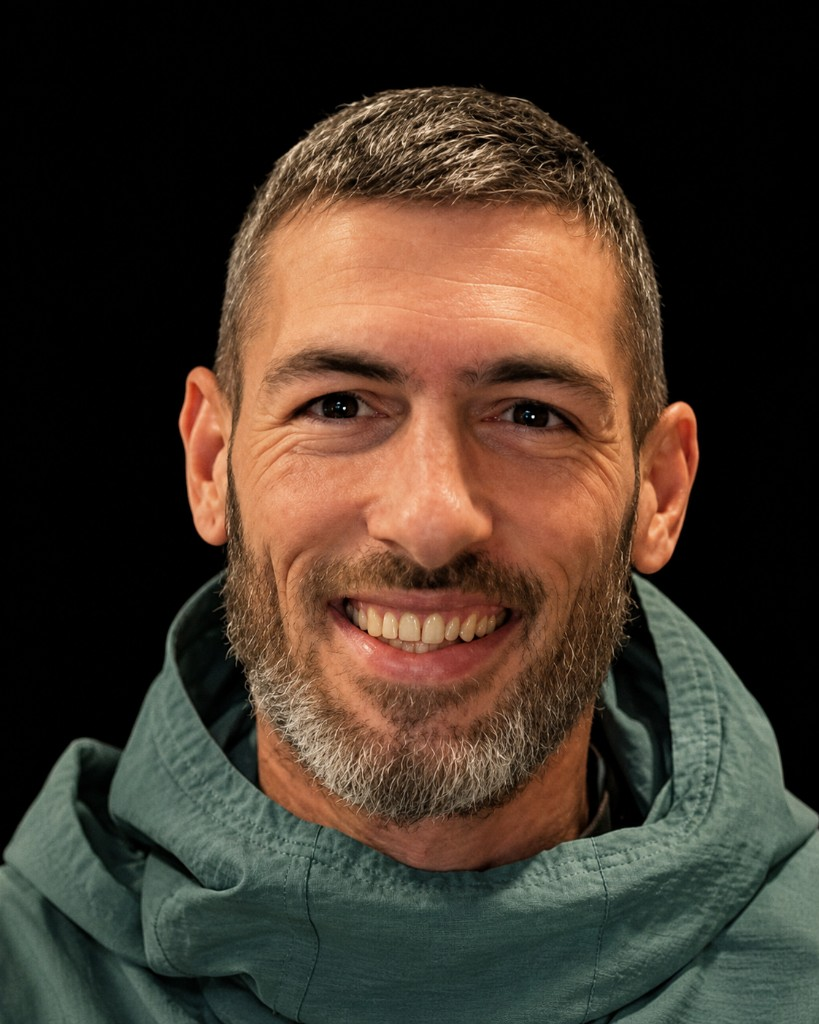
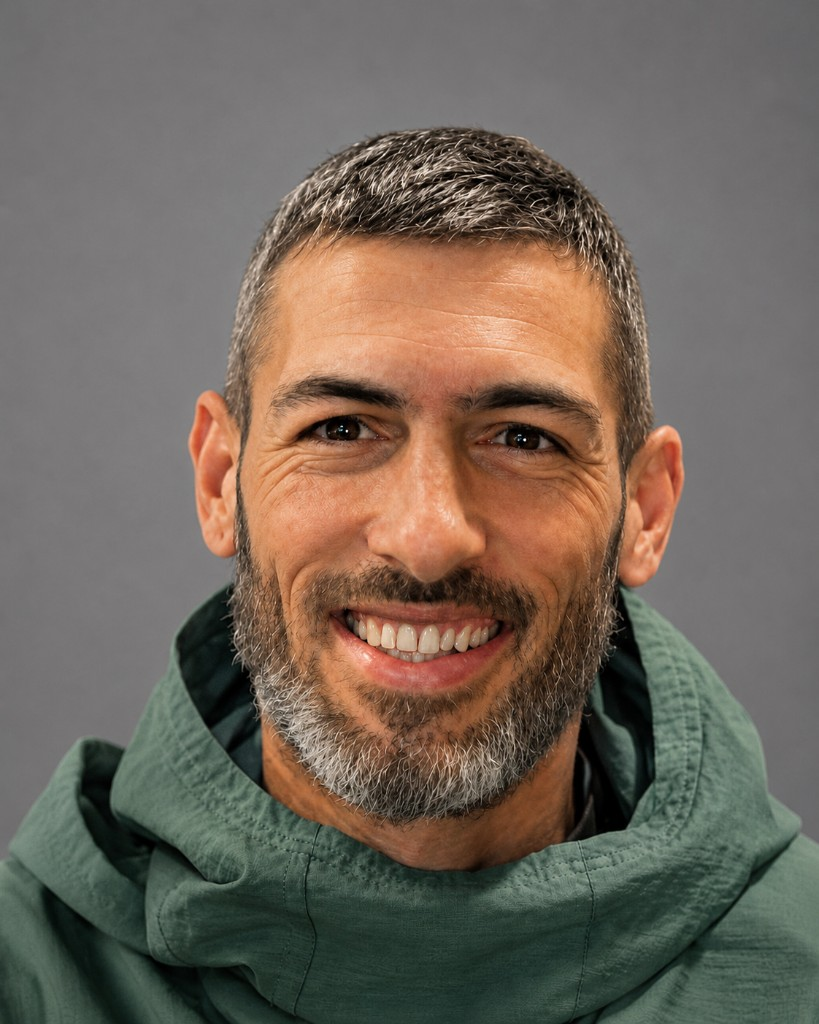
Update Victor staff photo with gray-background portrait.

diff --git a/database/staff_dashboard_spreadsheet_bundle.js b/database/staff_dashboard_spreadsheet_bundle.js
@@ -129,7 +129,7 @@
     "victor": {
       "staffId": "victor",
       "staffName": "Victor",
-      "avatarFile": "portal/staff_photos/victor.png",
+      "avatarFile": "portal/staff_photos/victor.png?v=20260606-victor-gris",
       "staffRoleTrack": "manager",
       "canViewAll": true
     },

diff --git a/working_ui/lead_dashboard.html b/working_ui/lead_dashboard.html
@@ -956,7 +956,7 @@
 
   <script src="portal/term_from_timetable.js?v=20260602-victor-thu"></script>
   <script src="/portal/term_calendar_dashboard_shared.js?v=20260523-feedback-window"></script>
-  <script src="portal/staff_dashboard_spreadsheet_bundle.js?v=20260606-andres-buena"></script>
+  <script src="portal/staff_dashboard_spreadsheet_bundle.js?v=20260606-victor-gris"></script>
   <script src="portal/session_feedback_portal_data.js?v=20260527-ma-apr-may"></script>
   <script src="portal/session_feedback_status_portal_data.js?v=20260527-ma-apr-may"></script>
   <script src="portal/staff_portal_feedback_bridge.js?v=20260622-absent-complete"></script>

diff --git a/working_ui/portal-shared-js/staff_dashboard_spreadsheet_bundle.js b/working_ui/portal-shared-js/staff_dashboard_spreadsheet_bundle.js
@@ -129,7 +129,7 @@
     "victor": {
       "staffId": "victor",
       "staffName": "Victor",
-      "avatarFile": "portal/staff_photos/victor.png",
+      "avatarFile": "portal/staff_photos/victor.png?v=20260606-victor-gris",
       "staffRoleTrack": "manager",
       "canViewAll": true
     },

diff --git a/working_ui/portal/staff_dashboard_spreadsheet_bundle.js b/working_ui/portal/staff_dashboard_spreadsheet_bundle.js
@@ -129,7 +129,7 @@
     "victor": {
       "staffId": "victor",
       "staffName": "Victor",
-      "avatarFile": "portal/staff_photos/victor.png",
+      "avatarFile": "portal/staff_photos/victor.png?v=20260606-victor-gris",
       "staffRoleTrack": "manager",
       "canViewAll": true
     },

diff --git a/working_ui/staff_dashboard.html b/working_ui/staff_dashboard.html
@@ -957,7 +957,7 @@
 
   <script src="/portal/term_from_timetable.js?v=20260604-teflon-guide-days"></script>
   <script src="/portal/term_calendar_dashboard_shared.js?v=20260523-feedback-window"></script>
-  <script src="/portal/staff_dashboard_spreadsheet_bundle.js?v=20260606-andres-buena"></script>
+  <script src="/portal/staff_dashboard_spreadsheet_bundle.js?v=20260606-victor-gris"></script>
   <script src="/portal/session_feedback_portal_data.js?v=20260527-ma-apr-may"></script>
   <script src="/portal/session_feedback_status_portal_data.js?v=20260526-all-complete"></script>
   <script src="/portal/staff_portal_feedback_bridge.js?v=20260622-absent-complete"></script>

diff --git a/working_ui/staff_dashboard_spreadsheet_bundle.js b/working_ui/staff_dashboard_spreadsheet_bundle.js
@@ -129,7 +129,7 @@
     "victor": {
       "staffId": "victor",
       "staffName": "Victor",
-      "avatarFile": "portal/staff_photos/victor.png",
+      "avatarFile": "portal/staff_photos/victor.png?v=20260606-victor-gris",
       "staffRoleTrack": "manager",
       "canViewAll": true
     },